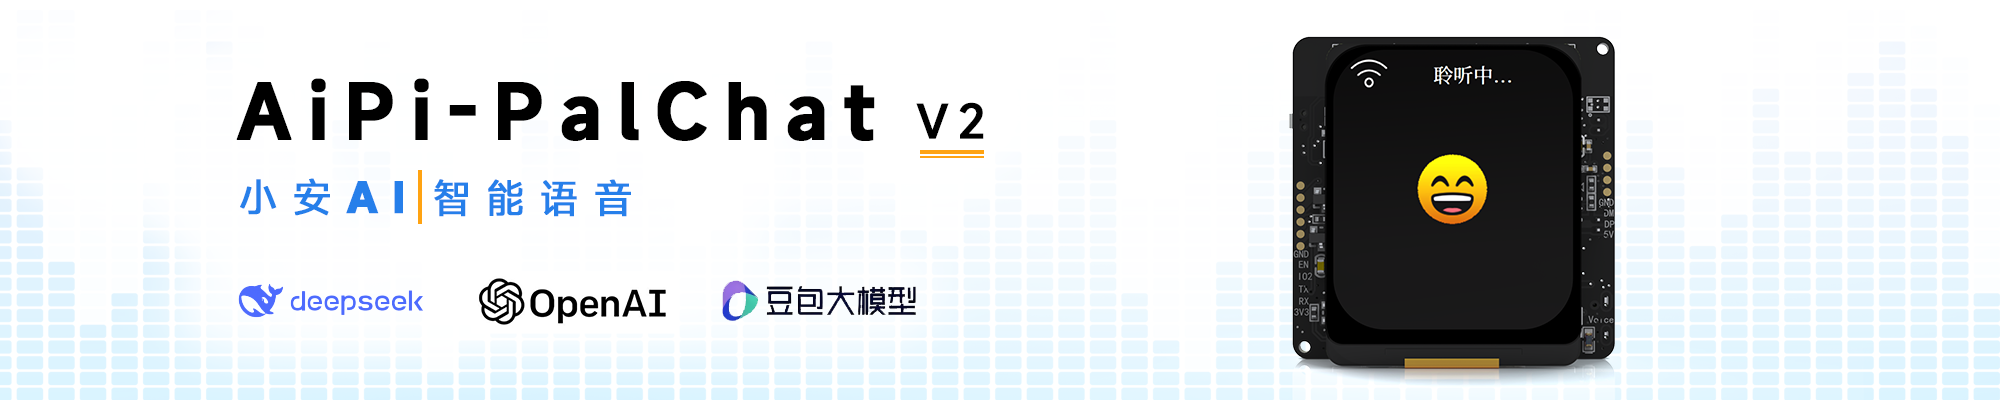
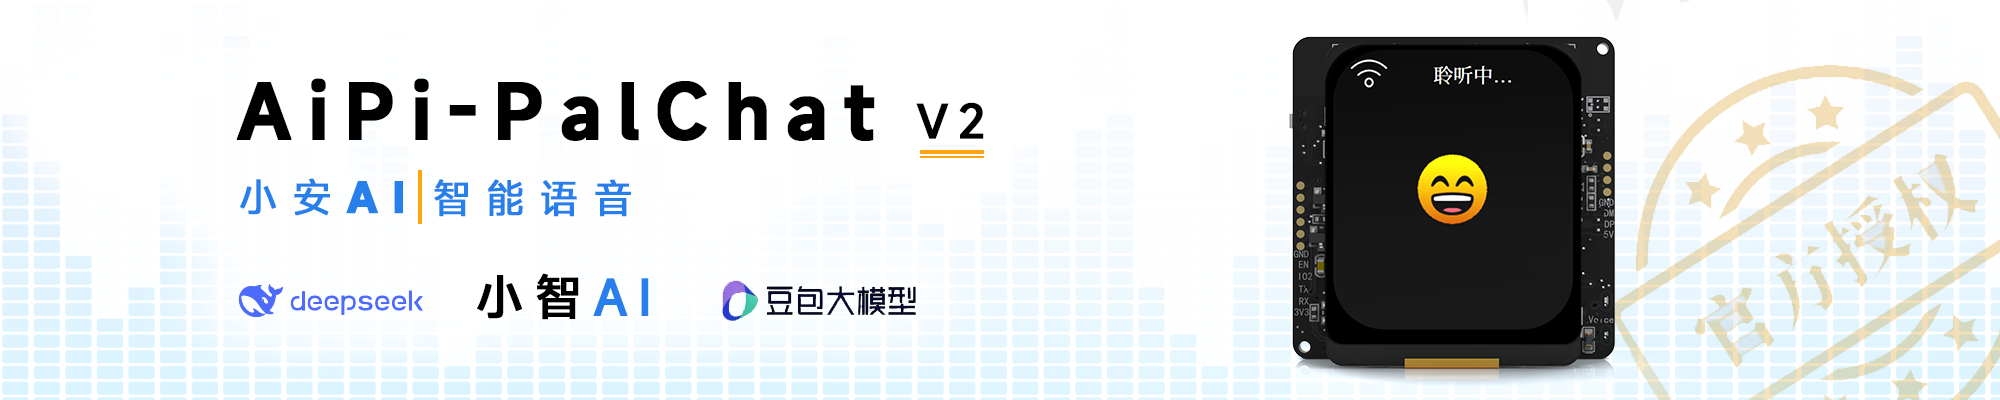
更新 README.md 中的 AI 模型图片，替换为新的 xiaozhi.jpg，移除旧的 deepseek.png 和 doubao.png，新增 deepseek.jpg 和 doubao.jpg

Changed region(s): [[0.806, 0.15, 1.0, 1.0], [0.0, 0.45, 0.651, 1.0], [0.217, 0.69, 0.341, 0.81]]

diff --git a/README.md b/README.md
@@ -27,7 +27,7 @@
 
 ### 2. 可选 AI 模型
 
-| ![alt text](doc/IMG/deepseek.png) | ![alt text](doc/IMG/doubao.png) | ![alt text](doc/IMG/openAi.png) |
+|![alt text](doc/IMG/xiaozhi.jpg)| ![alt text](doc/IMG/deepseek.jpg) | ![alt text](doc/IMG/doubao.jpg)  |
 | :---: | :---: | :---: | 
 
 ### 3. 技术参数